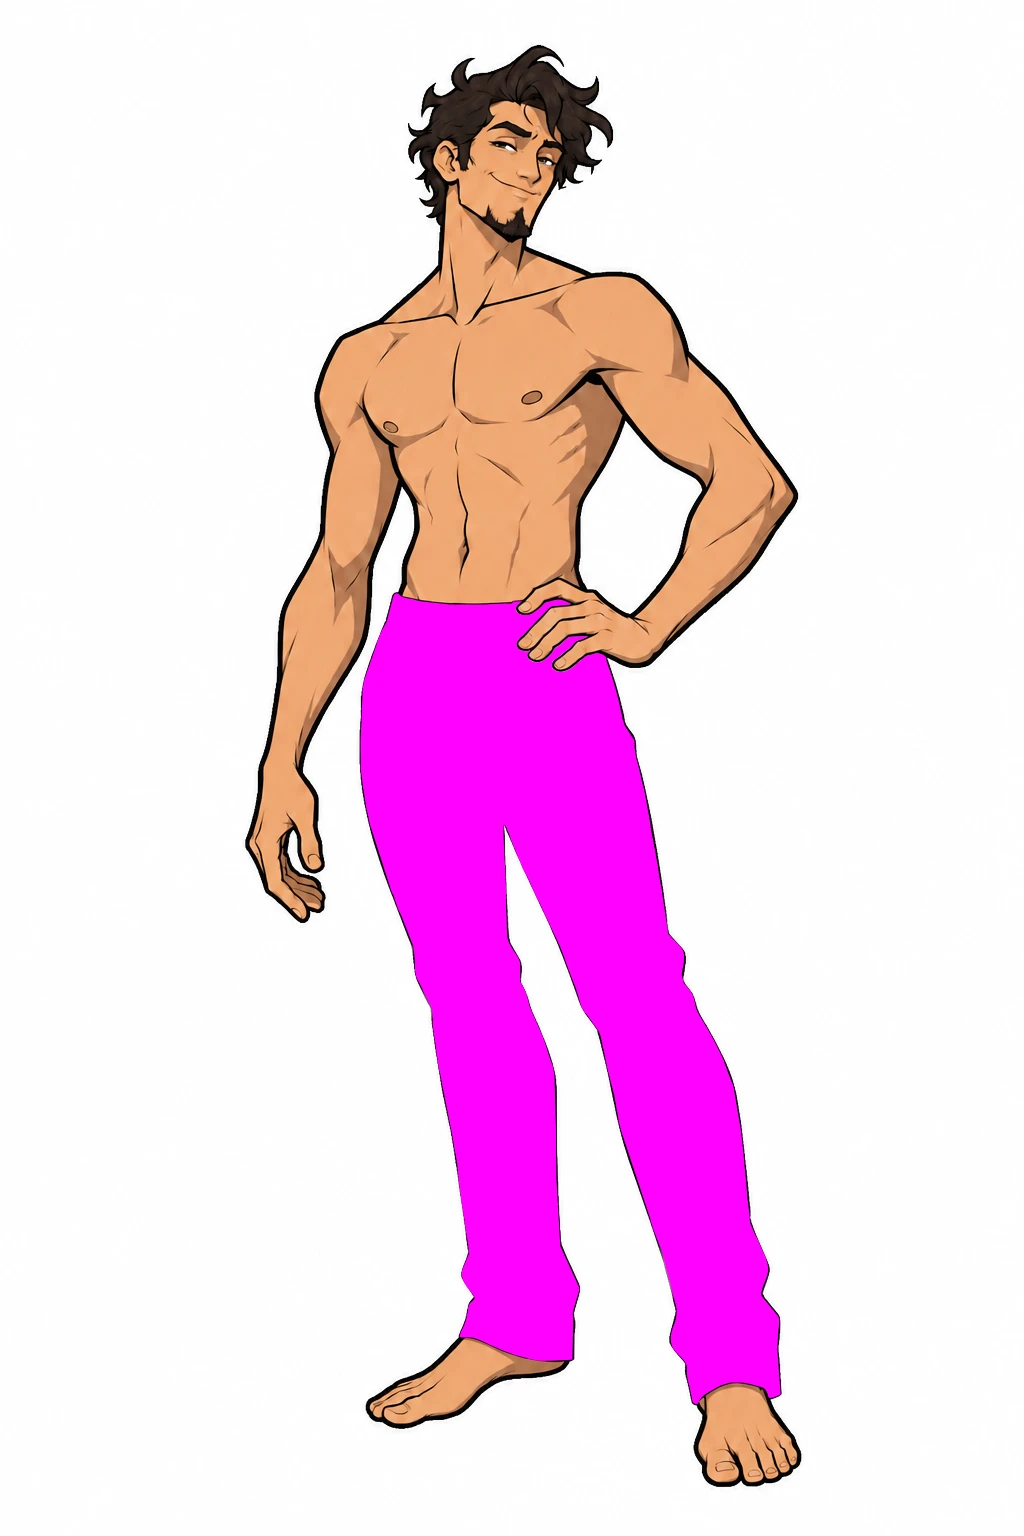
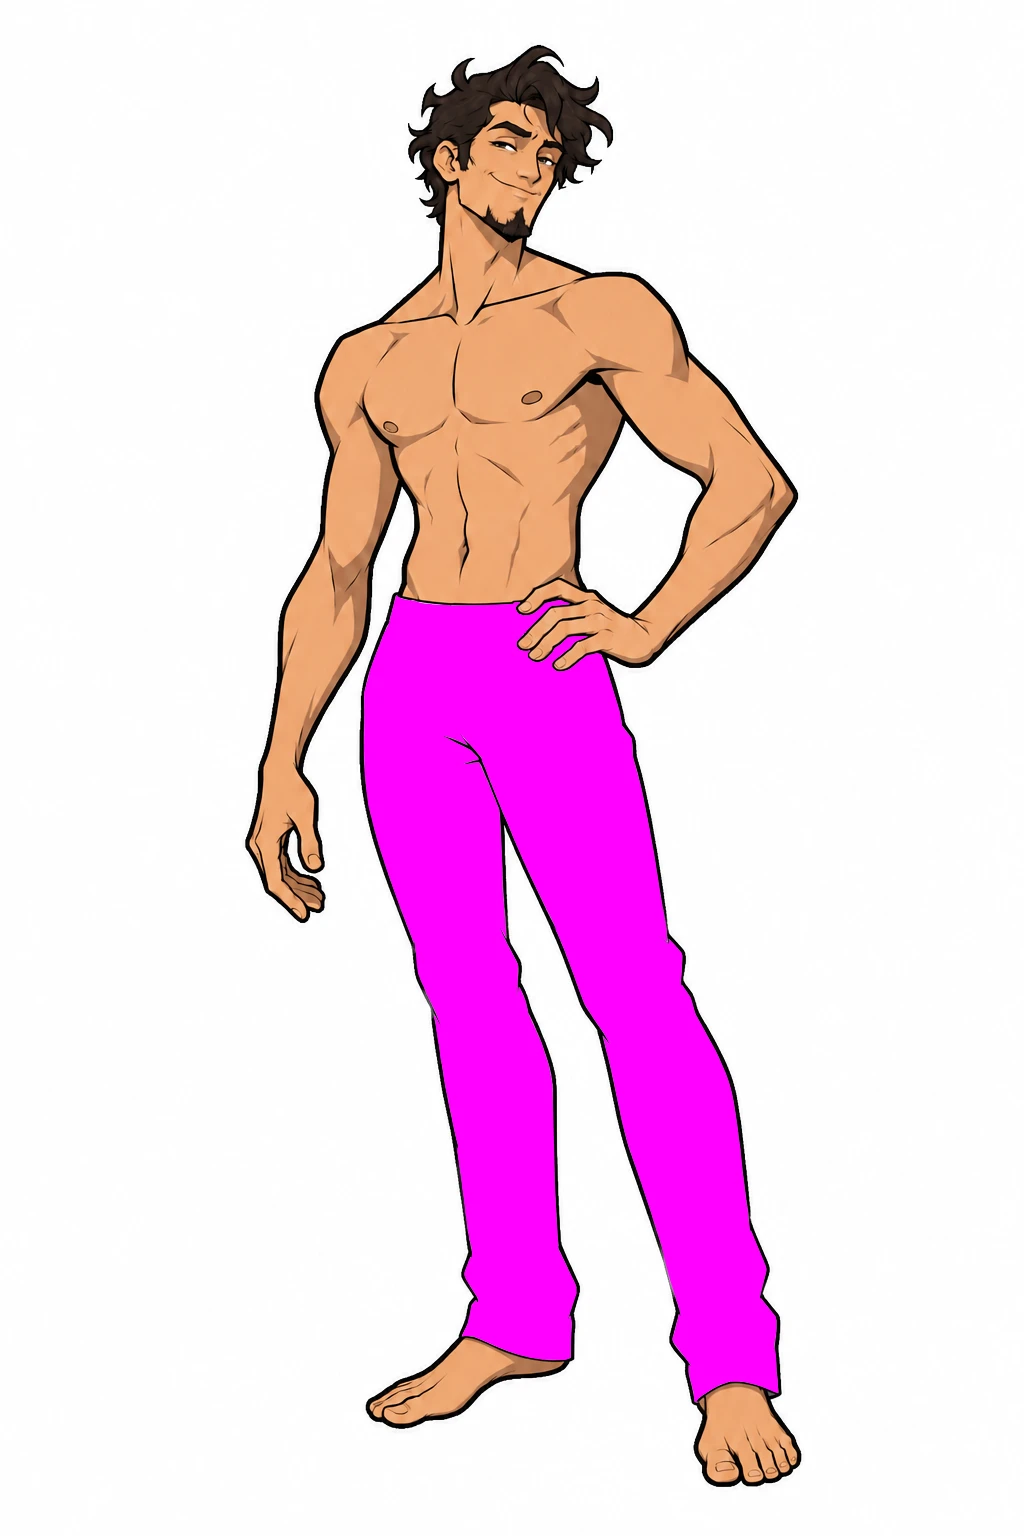
Примерочная: новая обводка брюк, ровный контур по краю
Claude-Session: https://claude.ai/code/session_013zhon25Gp5vam6iSjkw8f2

diff --git a/scripts/clothing-game-hand-masks.py b/scripts/clothing-game-hand-masks.py
@@ -22,13 +22,17 @@ for name in sys.argv[1:]:
     mag = nd.binary_fill_holes(nd.binary_closing(mag, iterations=2))
     # контур вещи прямо за краем обводки тоже входит в вещь
     lum = src @ np.array([0.299, 0.587, 0.114])
-    ring = nd.binary_dilation(mag, iterations=3) & ~mag
-    shape = mag | (ring & (lum < 70))
+    # контур целиком: тёмные пиксели в полосе до 7 px за краем обводки, связанные с ней
+    ring = nd.binary_dilation(mag, iterations=7) & ~mag
+    line = ring & (lum < 110)
+    lab, _ = nd.label(line | mag)
+    shape = np.isin(lab, np.unique(lab[mag]))
+    shape = nd.binary_closing(shape, iterations=2) | mag
     mx, mn = src.max(2), src.min(2)
-    cloth = ((mx - mn) / np.maximum(mx, 1) < 0.15) & (mn < 250)   # белая/серая вещь и контур
+    cloth = (((mx - mn) / np.maximum(mx, 1) < 0.15) & (mn < 250)) | (mx < 110)   # белая/серая вещь и контур
     out = np.where(cloth, lum, FABRIC).astype(np.float32)
     edge = shape & ~nd.binary_erosion(shape, iterations=3)
-    has_line = nd.binary_dilation(lum < 70, iterations=1)
+    has_line = nd.binary_dilation(lum < 70, iterations=4)
     out[edge & ~has_line] = INK
     alpha = (nd.gaussian_filter(shape.astype(np.float32), 0.6) * 255).astype(np.uint8)
     o = np.dstack([out, out, out]).clip(0, 255).astype(np.uint8)
